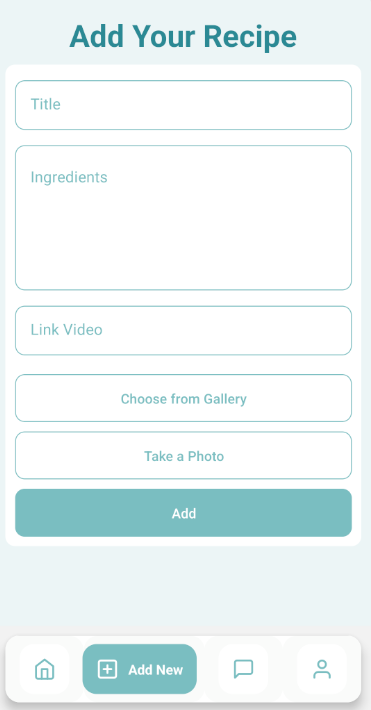
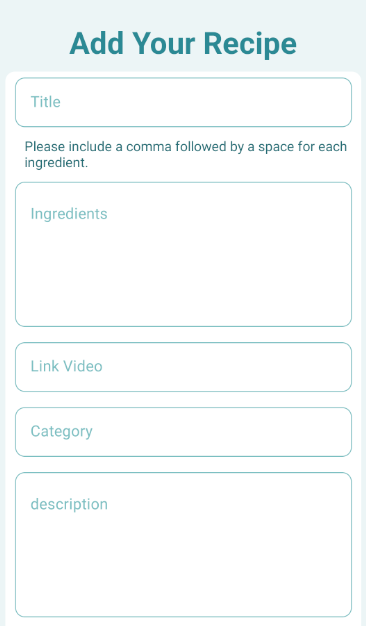
[fix] capitalized some item

diff --git a/src/component/screens/home/Details.js b/src/component/screens/home/Details.js
@@ -33,6 +33,7 @@ import axios from 'axios';
 import {ScrollView} from 'react-native-gesture-handler';
 import {useSelector} from 'react-redux';
 import config from '../../../../config';
+import {Rating} from 'react-native-ratings';
 
 const Detail = ({route}) => {
   const {itemData} = route.params;
@@ -359,7 +360,17 @@ const ThirdRoute = ({itemData}) => {
                 )}
                 <View style={styles.commentContent}>
                   <Text style={styles.name}>{comment.name_user}</Text>
-                  <Text style={styles.score}>{comment.score}</Text>
+                  <View style={styles.ratingContainer}>
+                    <Rating
+                      type="star"
+                      ratingCount={5}
+                      startingValue={comment.score}
+                      imageSize={20}
+                      readonly
+                      ratingColor="gold"
+                      ratingBackgroundColor="gray"
+                    />
+                  </View>
                   <Text style={styles.comment}>{comment.comment}</Text>
                 </View>
               </View>
@@ -447,6 +458,7 @@ const styles = StyleSheet.create({
     marginLeft: 20,
     marginTop: 150,
     width: '75%',
+    textTransform: 'capitalize',
   },
   subtitle: {
     position: 'absolute',
@@ -524,7 +536,7 @@ const styles = StyleSheet.create({
     margin: 10,
   },
   btnTextReview: {
-    color: 'black',
+    color: 'white',
     fontSize: 14,
   },
   textReview: {
@@ -554,6 +566,11 @@ const styles = StyleSheet.create({
     marginBottom: 10,
     textAlign: 'center',
     color: 'black',
+  },
+  ratingContainer: {
+    flexDirection: 'row',
+    alignItems: 'flex-start',
+    marginTop: 5,
   },
   // btnLike: {
   //   alignSelf: 'center',

diff --git a/src/component/homePages/search/SearchPages.js b/src/component/homePages/search/SearchPages.js
@@ -162,6 +162,7 @@ const styles = StyleSheet.create({
   text: {
     color: 'black',
     marginLeft: 10,
+    textTransform: 'capitalize',
   },
   emptyText: {
     color: 'black',

diff --git a/README.md b/README.md
@@ -191,13 +191,21 @@ To learn more about React Native, take a look at the following resources:
 </tr>
 <tr>
     <td>addRecipe</td>
-    <td>profileIsLogin</td>
-    <td>profileNotLogin</td>
+    <td>addRecipe2</td>
 </tr>
 <tr>
     <td>
     <img width="350px" src="./documentation/add/addRecipe.png" border="0" alt="addRecipe" />
     </td>
+    <td> 
+    <img width="350px" src="./documentation/add/addRecipe2.png" border="0"  alt="addRecipe2" />
+    </td>
+</tr>
+<tr>
+    <td>profileIsLogin</td>
+    <td>profileNotLogin</td>
+</tr>
+<tr>
     <td> 
     <img width="350px" src="./documentation/profile/isLogin.png" border="0"  alt="profileIsLogin" />
     </td>
